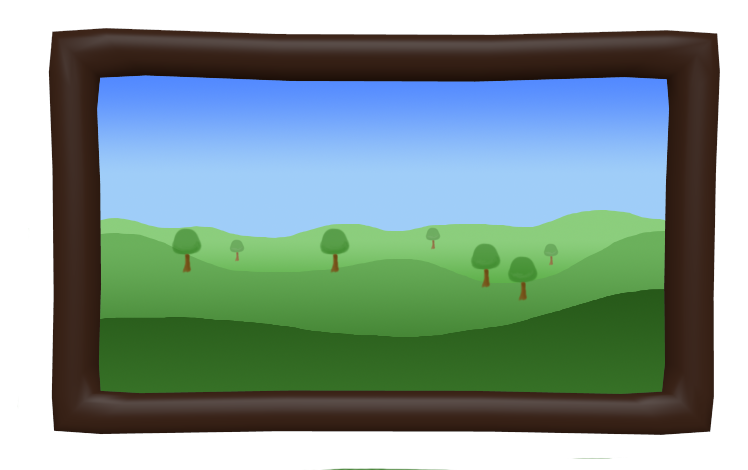
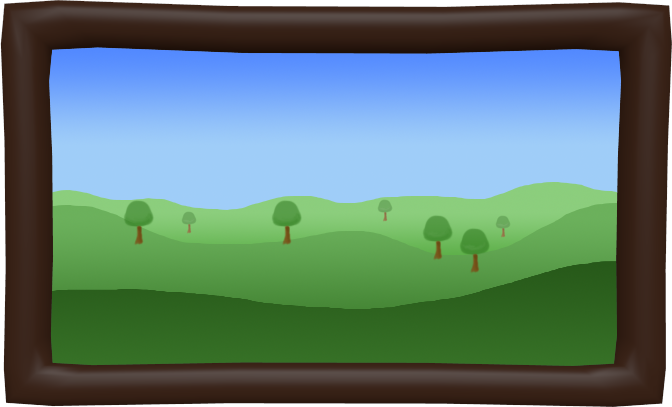
tausta korjattu, kuvake muutettu, nappi uudelleen tehty

diff --git a/core/src/fi/tamk/jdce/Background.java b/core/src/fi/tamk/jdce/Background.java
@@ -97,15 +97,15 @@ public class Background {
      * Draws textures.
      */
     public void draw(){
-        y= game.getPlayer().getY()-4f;
-        x= game.getPlayer().getX()-3f;
+        y= game.getMeterViewport().getCamera().position.y-game.getMeterViewport().getCamera().viewportHeight/2;
+        x= game.getMeterViewport().getCamera().position.x-game.getMeterViewport().getCamera().viewportWidth/2;
 
 
         sourceY = game.getPlayer().getY();
         sourceX=game.getPlayer().getX();
-        batch.draw(back,x,y,game.getScreenWidth()+1,game.getScreenHeight()+1);
-        batch.draw(middle,x,y,0,0,game.getScreenWidth()+1,game.getScreenHeight()+1,1,1,0,(int)(sourceX*0.7),-(int)(sourceY*0.7)-260+yHeightMiddle,(int)(game.getScreenWidth()*game.PIXELS_TO_METERS*1.2),(int)(game.getScreenHeight()*game.PIXELS_TO_METERS*1.2),false,false);
-        batch.draw(front,x,y,0,0,game.getScreenWidth()+1,game.getScreenHeight()+1,1,1,0,(int)(sourceX*5),-(int)(sourceY*5)-530+yHeightFront,(int)(game.getScreenWidth()*game.PIXELS_TO_METERS*1.8),(int)(game.getScreenHeight()*game.PIXELS_TO_METERS*1.8),false,false);
+        batch.draw(back,x,y,game.getMeterViewport().getCamera().viewportWidth,game.getMeterViewport().getCamera().viewportHeight);
+        batch.draw(middle,x,y,0,0,game.getMeterViewport().getCamera().viewportWidth,game.getMeterViewport().getCamera().viewportHeight,1,1,0,(int)(sourceX*0.7),-(int)(sourceY*0.7)-260+yHeightMiddle,(int)(game.getScreenWidth()*game.PIXELS_TO_METERS*1.2),(int)(game.getScreenHeight()*game.PIXELS_TO_METERS*1.2),false,false);
+        batch.draw(front,x,y,0,0,game.getMeterViewport().getCamera().viewportWidth,game.getMeterViewport().getCamera().viewportHeight,1,1,0,(int)(sourceX*5),-(int)(sourceY*5)-530+yHeightFront,(int)(game.getScreenWidth()*game.PIXELS_TO_METERS*1.8),(int)(game.getScreenHeight()*game.PIXELS_TO_METERS*1.8),false,false);
 
 
     }

diff --git a/core/src/fi/tamk/jdce/GameScreen.java b/core/src/fi/tamk/jdce/GameScreen.java
@@ -240,9 +240,11 @@ public class GameScreen extends NewScreen {
     public void render(float delta) {
         //System.out.println("aika: "+delta);
         if(!paused) {
-            world.step(delta, 6, 2);
 
+
+            world.step(delta, 6, 2);
             moveCamera();
+
             JDCEGame.m_platformResolver.getPedalSpeed();
             player.update();
 
@@ -348,6 +350,10 @@ public class GameScreen extends NewScreen {
         world.setContactListener(null);
         world.clearForces();
         endGame =false;
+
+        if(levelCreator.collectableAtlas!=null){
+            levelCreator.collectableAtlas.dispose();
+        }
         player.dispose();
 
     }
@@ -464,6 +470,10 @@ public class GameScreen extends NewScreen {
         if(JDCEGame.musicOn) {
             music.play();
         }
+
+        if(levelCreator.collectableAtlas!=null){
+            levelCreator.collectableAtlas.dispose();
+        }
     }
 
     @Override
@@ -481,7 +491,9 @@ public class GameScreen extends NewScreen {
         }
 
         assets(worldNumber);
-        
+        if(levelNumber == 16){
+            turbos=levelCreator.createCollectables(new float[]{30,60});
+        }
 
         Gdx.input.setInputProcessor(player);
     }
